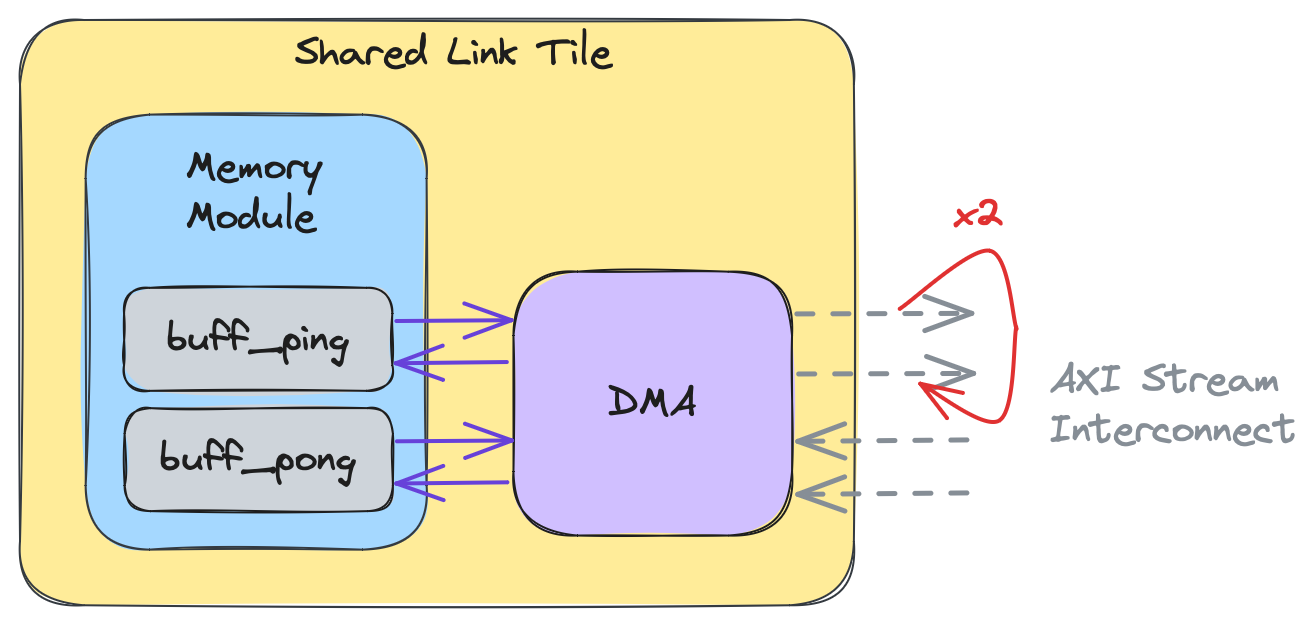
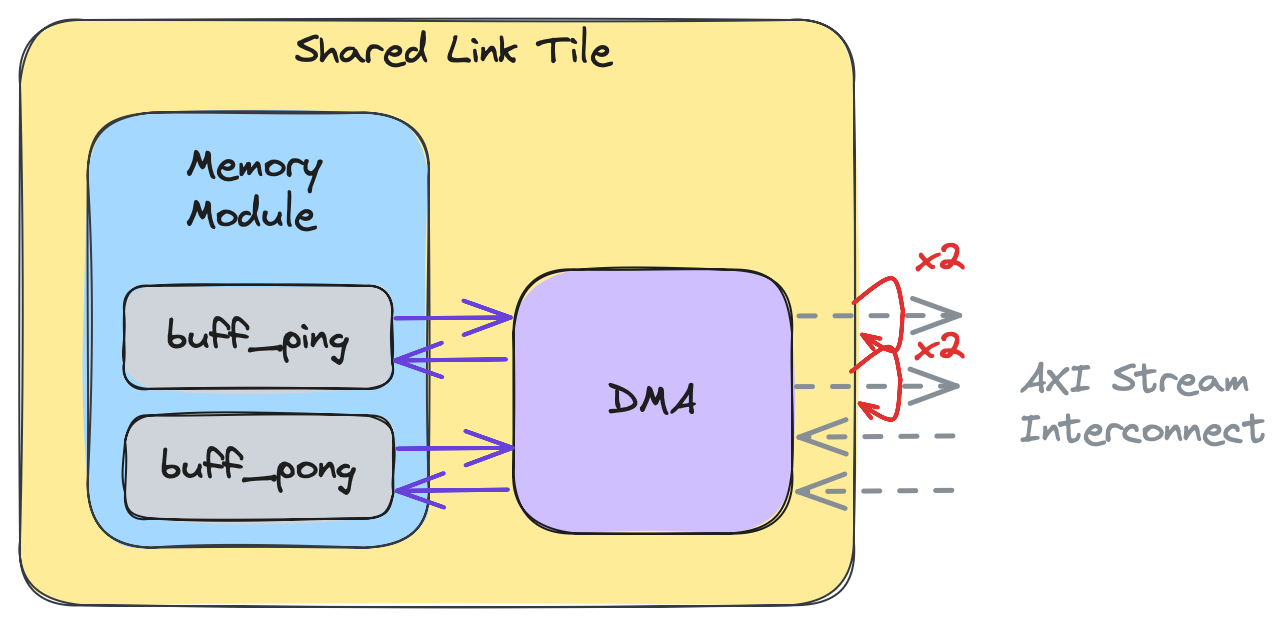
Updated images

diff --git a/programming_guide/section-2/section-2b/04_Repeat/README.md b/programming_guide/section-2/section-2b/04_Repeat/README.md
@@ -12,7 +12,7 @@
 
 At the closer-to-metal API level, the Object FIFO provides users with two ways to specify how data from the producer should be repeated. 
 
-Both repeat features are achieved using the Direct Memory Access (DMA) unit of the Object FIFO's producer tile. In particular, data movement for each DMA channel is described as a chain of buffer descriptors, where each buffer descriptor (BD) indicates what data should be pushed to the AXI stream. The data movement generated for Object FIFOs follows a cyclic pattern of First In First Out where each object in the Object FIFO is moved by one BD in a BD chain.
+Both repeat features are achieved using the Direct Memory Access (DMA) unit of the Object FIFO's producer tile. In particular, data movement for each DMA channel is described as a chain of buffer descriptors, where each buffer descriptor (BD) indicates what data should be pushed to the AXI stream. The data movement generated for Object FIFOs follows a cyclic pattern of First In First Out where each object in the Object FIFO is moved by one BD in a chain.
 
 The first repeat features enables users to repeat the entire BD chain using the following syntax:
 ```python
@@ -20,7 +20,10 @@ of0 = object_fifo("objfifo0", A, B, 2, np.ndarray[(256,), np.dtype[np.int32]])
 of0.set_iter_count(2)
 ```
 The code snippet above results in the repetition of each object in the Object FIFO following the pattern `buff_ping - buff_pong - buff_ping - buff_pong`. This is shown in the figure below with the red arrow representing the repeat value of the entire BD chain:
-<img src="./../../../assets/RepeatSharedTile_2.png" height="300">
+
+<img src="./../../../assets/RepeatSharedTile.png" height="300">
+
+> **NOTE:**  Repeating BD chains is only available on Mem tiles.
 
 Users may also repeat each individual BD in the chain. This feature is available using the following syntax:
 ```python
@@ -29,16 +32,16 @@ of0.set_repeat_count(2)
 ```
 The specified repeat value is applied to all BDs. It is currently not possible to set different repeat values per BD.
 The code snippet above results in the repetition of each object in the Object FIFO following the pattern `buff_ping - buff_ping - buff_pong - buff_pong`. This is shown in the figure below with the red arrows representing the repeat values of each BD in the chain:
-<img src="./../../../assets/RepeatSharedTile.png" height="300">
+
+<img src="./../../../assets/RepeatSharedTile_2.png" height="300">
+
+The `repeat_count` feature may also be used with a Compute tile producer. As synchronization logic is leveraged for object accesses between a Compute tile core and its DMA, the Object FIFO lowering will use available information to modify the values of Object FIFO ```acquire``` and ```release``` operations based on the repeat value. This is to ensure that enough tokens are produced by the compute core to allow the DMA to repeat and that these tokens are accounted for by the first ```acquire``` operation post DMA repetition. Doing this adjustement for Object FIFOs of depth larger than 1 is non-trivial and currently not supported.
 
 > **NOTE:**  The two repeat features can be combined.
 
 > **NOTE:**  No additional memory is allocated when repeating. Instead, DMAs are programmed to push existing data buffers multiple times.
 
 For more information into DMAs and their buffer descriptors you can refer to the [Advanced Topic of Section 2a](../../section-2a/README.md#advanced-topic-data-movement-accelerators) and [Section 2g](../../section-2g/).
-
-TODO: explain the particular case of the compute tile (iter_count is not available on compute tiles?)
-As the repeat pattern relies on synchronization logic, the Object FIFO lowering will use available information to modify the values of Object FIFO ```acquire``` and ```release``` operations to ensure that enough tokens are produced by the producer tile to allow the DMA to repeat and that these tokens are accounted for by the first ```acquire``` operation post DMA repetition. Doing this adjustement for Object FIFOs of depth larger than 1 is non-trivial and currently not supported.
 
 ### Link & Repeat
 
